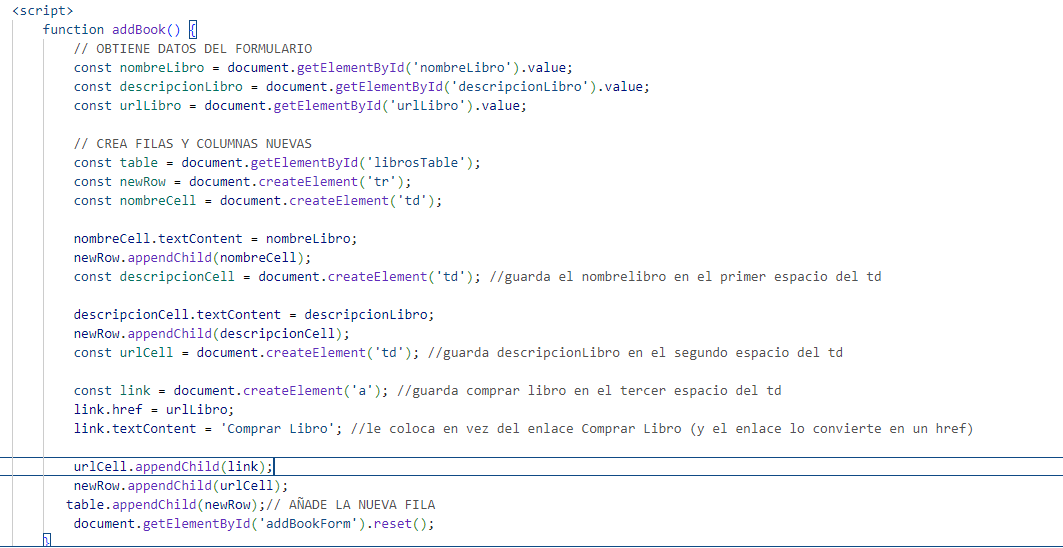
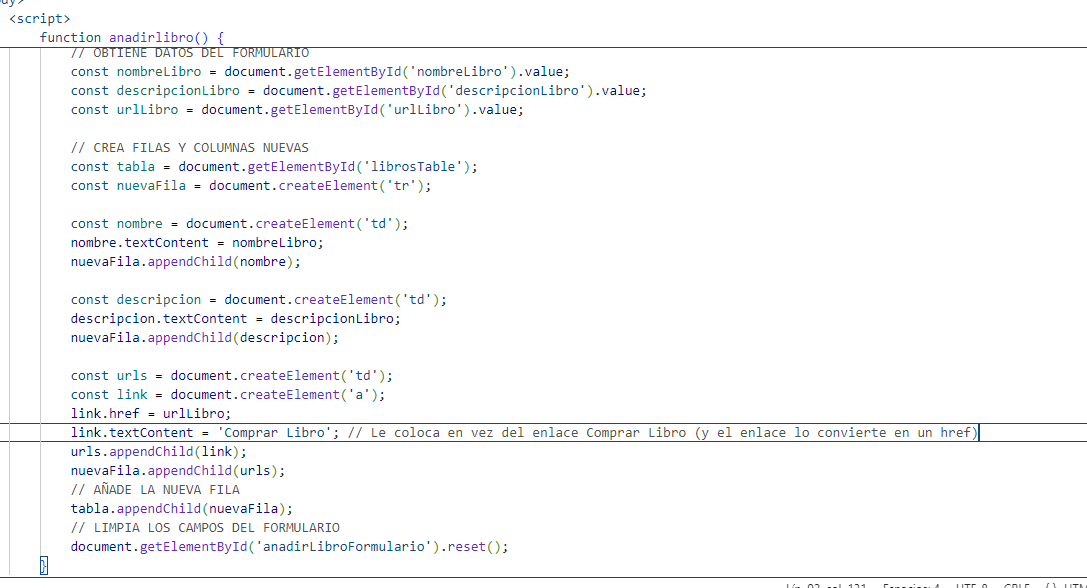
Primera sesion
Cambios en tarea

Changed region(s): [[0.0, 0.0, 1.0, 1.0], [0.4036, 0.6204, 0.8071, 0.6515]]

diff --git a/PRIMER SESION/A1.html b/PRIMER SESION/A1.html
@@ -25,37 +25,37 @@
             background-color: coral;
             color: #fff;
         }
-        form{
+        form {
             background-color: #ddd;
             text-align: center;
             padding: 10px;
             border-bottom: 4px solid #ddd;
         }
-        form:hover{
+        form:hover {
             background-color: coral;
             color: #fff;
         }
-        button{
+        button {
             border-bottom: 1px solid black;
             padding: 10px;
         }
-        button:hover{
+        button:hover {
             background-color: greenyellow;
-            color:#fff
+            color: #fff;
         }
     </style>
 </head>
 <body>
 
     <h2>AGREGAR LIBROS</h2>
-    <form id="addBookForm">
+    <form id="anadirLibroFormulario">
         <label for="nombreLibro">Nombre del Libro:</label>
         <input type="text" id="nombreLibro" required>
         <label for="descripcionLibro">Descripción del Libro:</label>
         <input type="text" id="descripcionLibro" required>
         <label for="urlLibro">URL:</label>
         <input type="url" id="urlLibro" required>
-        <button type="button" onclick="addBook()">Añadir a la Tabla</button>
+        <button type="button" onclick="anadirlibro()">Añadir a la Tabla</button>
     </form>
 
     <h2>CATÁLOGO DE LIBROS</h2>
@@ -68,33 +68,37 @@
     </table>
     
     <script>
-        function addBook() {
+        function anadirlibro() {
             // OBTIENE DATOS DEL FORMULARIO 
             const nombreLibro = document.getElementById('nombreLibro').value;
             const descripcionLibro = document.getElementById('descripcionLibro').value;
             const urlLibro = document.getElementById('urlLibro').value;
 
             // CREA FILAS Y COLUMNAS NUEVAS
-            const table = document.getElementById('librosTable');
-            const newRow = document.createElement('tr');
-            const nombreCell = document.createElement('td');
+            const tabla = document.getElementById('librosTable');
+            const nuevaFila = document.createElement('tr');
 
-            nombreCell.textContent = nombreLibro;
-            newRow.appendChild(nombreCell);
-            const descripcionCell = document.createElement('td'); //guarda el nombrelibro en el primer espacio del td
+            const nombre = document.createElement('td');
+            nombre.textContent = nombreLibro;
+            nuevaFila.appendChild(nombre);
 
-            descripcionCell.textContent = descripcionLibro;
-            newRow.appendChild(descripcionCell);
-            const urlCell = document.createElement('td'); //guarda descripcionLibro en el segundo espacio del td
+            const descripcion = document.createElement('td'); 
+            descripcion.textContent = descripcionLibro;
+            nuevaFila.appendChild(descripcion);
 
-            const link = document.createElement('a'); //guarda comprar libro en el tercer espacio del td
+            const urls = document.createElement('td'); 
+            const link = document.createElement('a'); 
             link.href = urlLibro;
-            link.textContent = 'Comprar Libro'; //le coloca en vez del enlace Comprar Libro (y el enlace lo convierte en un href)
+            link.textContent = 'Comprar Libro'; // Le coloca en vez del enlace Comprar Libro (y el enlace lo convierte en un href)
 
-            urlCell.appendChild(link);
-            newRow.appendChild(urlCell);
-           table.appendChild(newRow);// AÑADE LA NUEVA FILA 
-            document.getElementById('addBookForm').reset();
+            urls.appendChild(link);
+            nuevaFila.appendChild(urls);
+
+            // AÑADE LA NUEVA FILA 
+            tabla.appendChild(nuevaFila);
+
+            // LIMPIA LOS CAMPOS DEL FORMULARIO
+            document.getElementById('anadirLibroFormulario').reset();
         }
     </script>
 </body>
